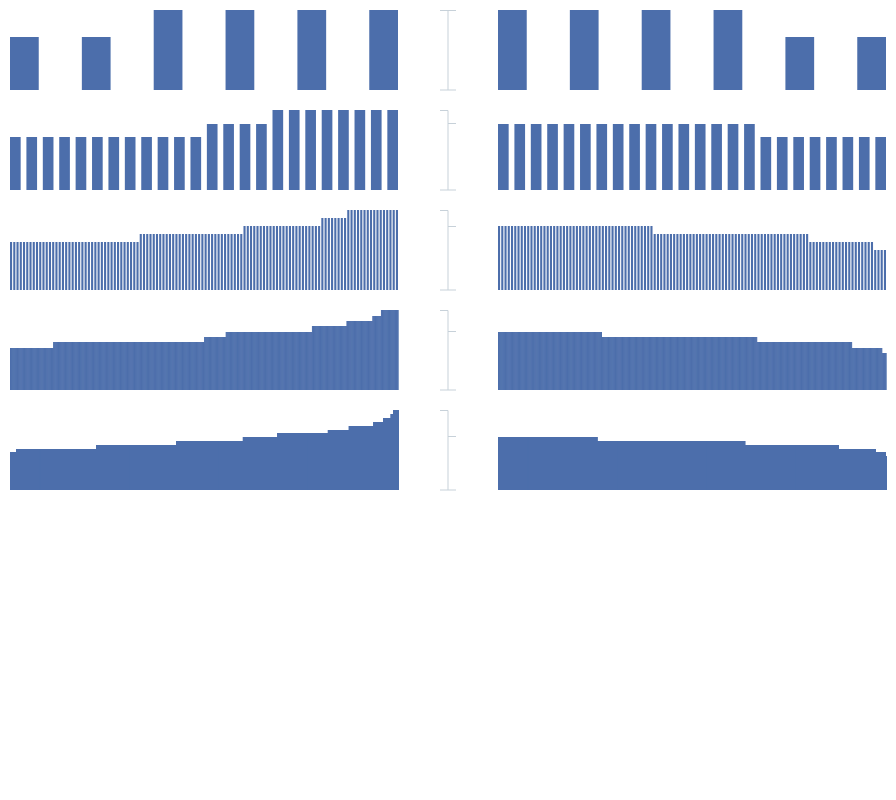
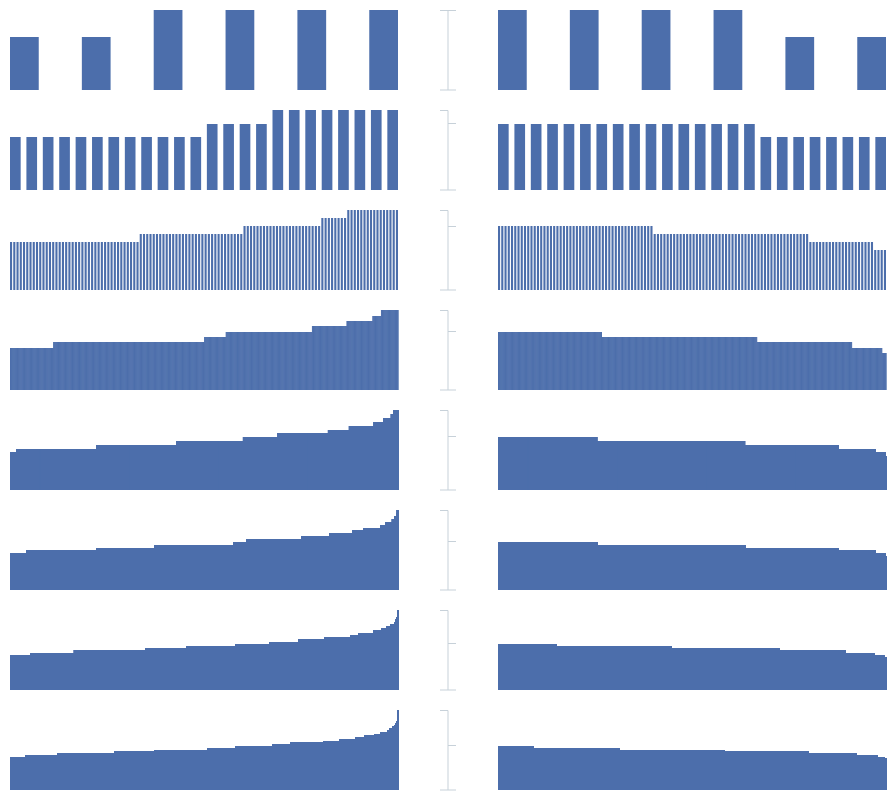
Edit bigoh_img2.py to include up to n=10 case.

diff --git a/src/bigoh_img2.py b/src/bigoh_img2.py
@@ -18,7 +18,7 @@ bigoh.line_width = 1.0
 
 
 ctx, surface = bigoh.make_cairo_context()
-for n in range(3, 8):  # Real image should go up to 10 (so end=11).
+for n in range(3, 11):  # Real image should go up to 10 (so end=11).
   #print('n=%d' % n)
   #bar_heights, perms = bigoh.get_runtimes_for_sorting(n)
   #bigoh.draw_bar_graph(n, ctx, bigoh.centered_rect(top=10 + (n - 3) * 100, height=100, horiz_inset=10))
